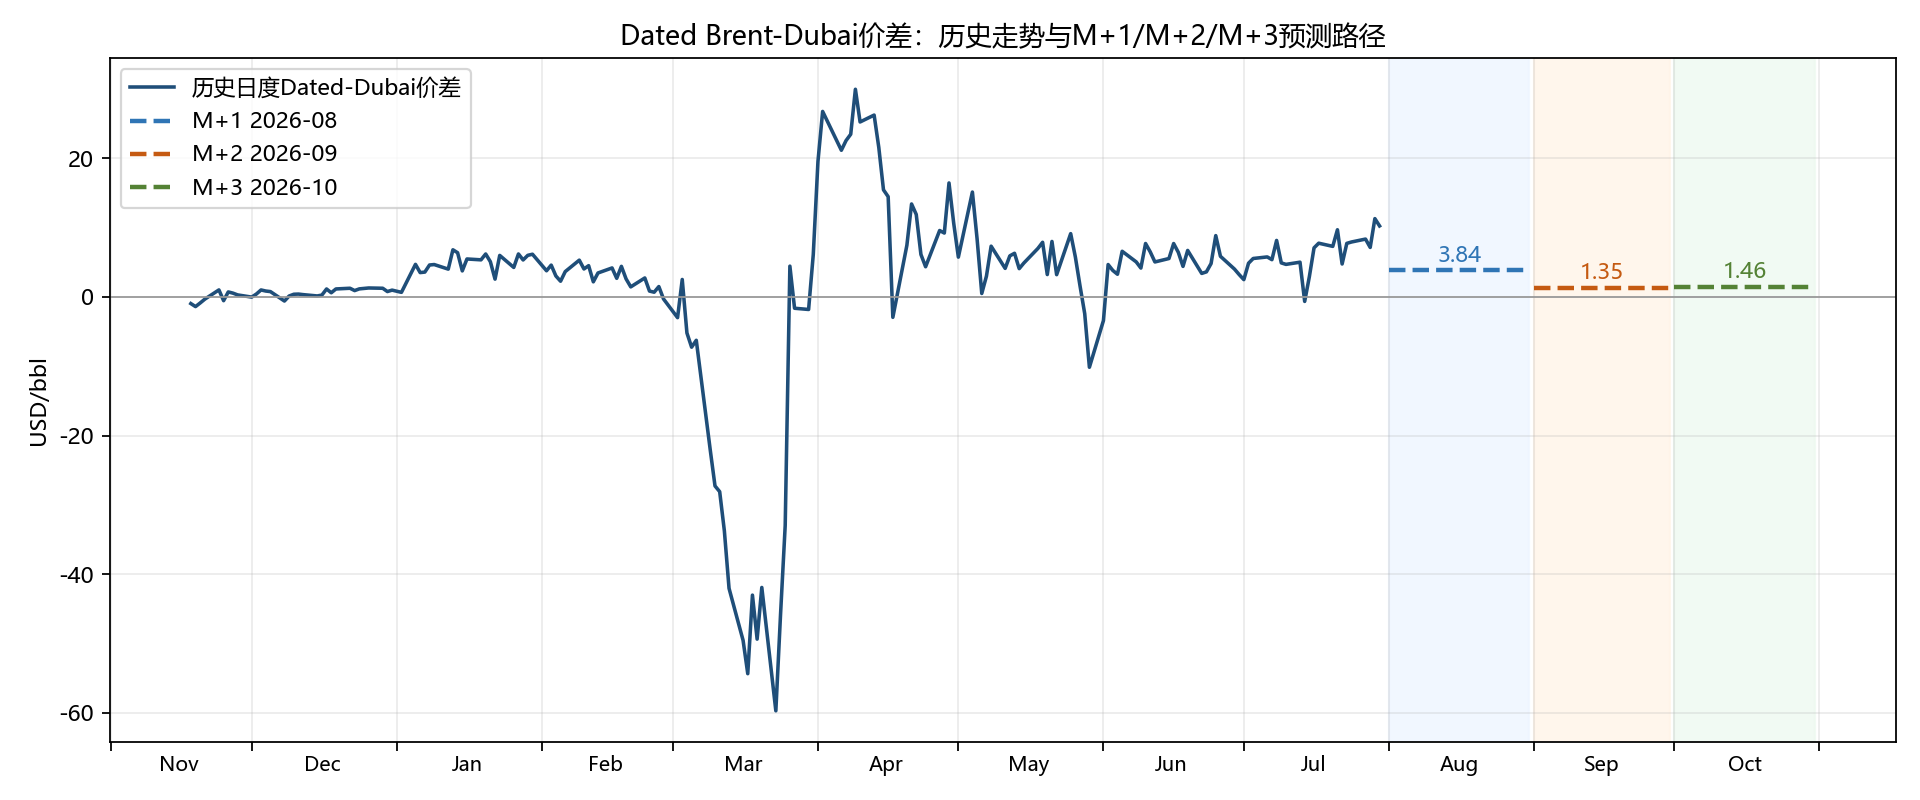
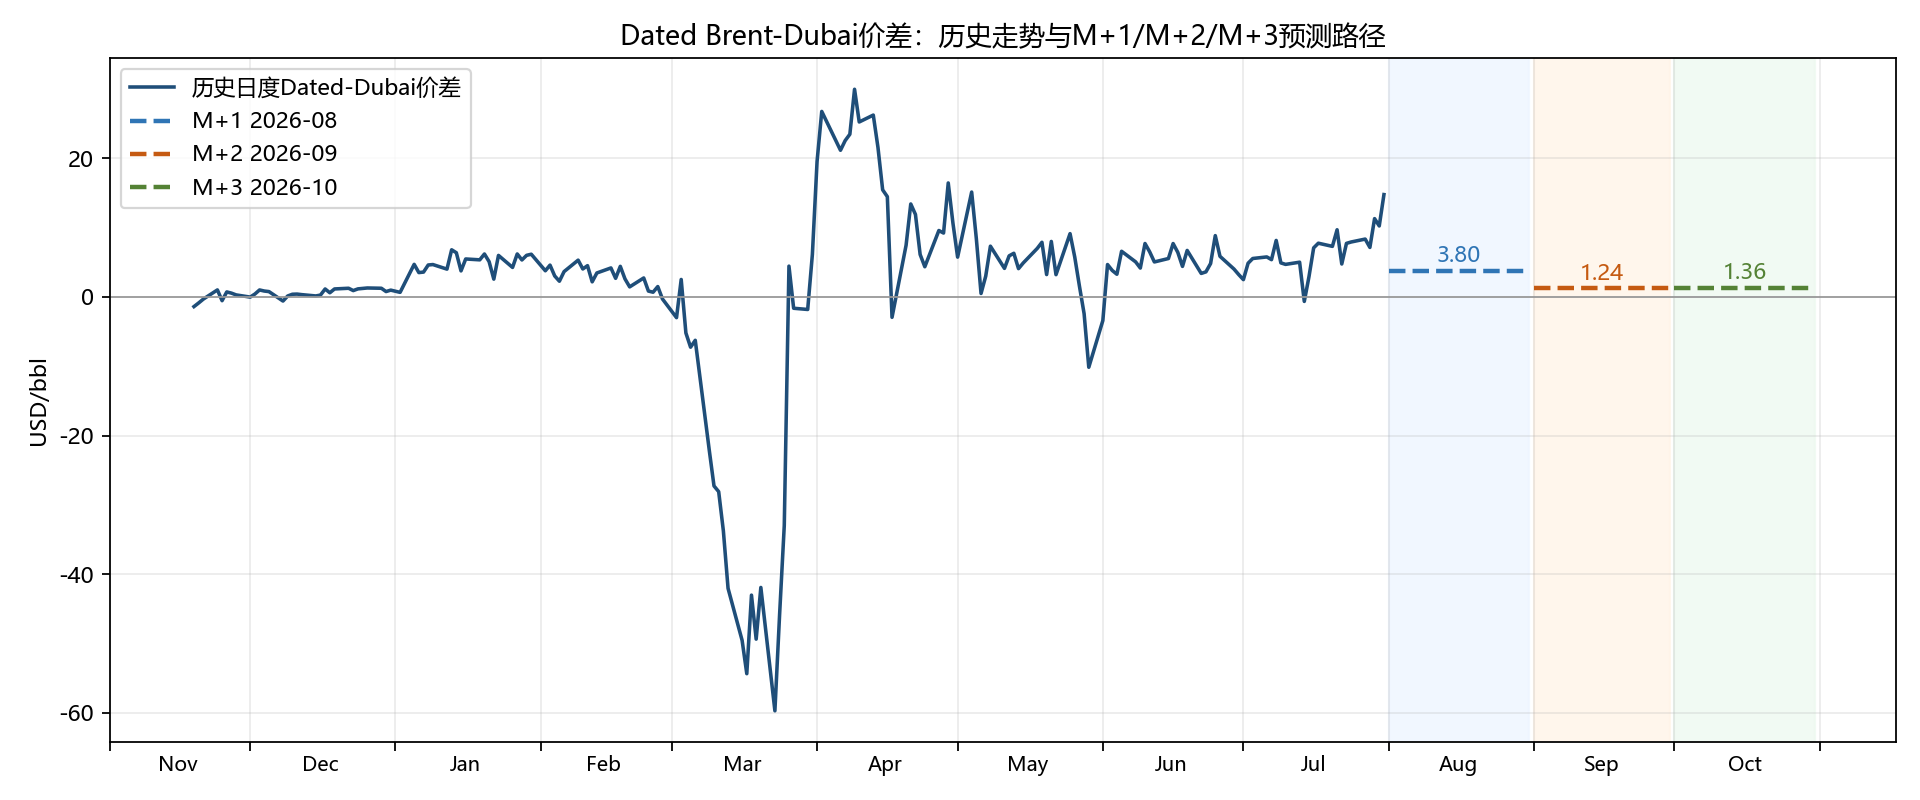
Update BD report 2026-08-03 09:39

diff --git a/index.html b/index.html
@@ -20,7 +20,7 @@ img{max-width:100%;border:1px solid #ddd}.note{color:#555}
 </head><body>
 <h1>Dated-Dubai价差中期预测模型报告</h1>
 <h2>1. 核心结论</h2>
-<div class='grid'><div class='kpi'>数据日期<b>2026-07-30</b></div><div class='kpi'>Dated Brent<b>92.155</b></div><div class='kpi'>Dubai<b>81.910</b></div><div class='kpi'>Dated-Dubai价差<b>10.245</b></div></div>
+<div class='grid'><div class='kpi'>数据日期<b>2026-07-31</b></div><div class='kpi'>Dated Brent<b>96.570</b></div><div class='kpi'>Dubai<b>81.800</b></div><div class='kpi'>Dated-Dubai价差<b>14.770</b></div></div>
 <table class="dataframe data-table">
   <thead>
     <tr style="text-align: right;">
@@ -39,8 +39,8 @@ img{max-width:100%;border:1px solid #ddd}.note{color:#555}
     <tr>
       <td>2026-08</td>
       <td>M+1</td>
-      <td>3.8437</td>
-      <td>-6.4013</td>
+      <td>3.7970</td>
+      <td>-10.9730</td>
       <td>下降</td>
       <td>ExtraTrees</td>
       <td>core</td>
@@ -50,8 +50,8 @@ img{max-width:100%;border:1px solid #ddd}.note{color:#555}
     <tr>
       <td>2026-09</td>
       <td>M+2</td>
-      <td>1.3473</td>
-      <td>-8.8977</td>
+      <td>1.2399</td>
+      <td>-13.5301</td>
       <td>下降</td>
       <td>ExtraTrees</td>
       <td>enhanced</td>
@@ -61,8 +61,8 @@ img{max-width:100%;border:1px solid #ddd}.note{color:#555}
     <tr>
       <td>2026-10</td>
       <td>M+3</td>
-      <td>1.4555</td>
-      <td>-8.7895</td>
+      <td>1.3590</td>
+      <td>-13.4110</td>
       <td>下降</td>
       <td>ExtraTrees</td>
       <td>enhanced</td>
@@ -72,10 +72,10 @@ img{max-width:100%;border:1px solid #ddd}.note{color:#555}
   </tbody>
 </table>
 <p>方向准确率为历史滚动回测结果。</p>
-<p>最新Dated-Dubai价差为 10.245 USD/bbl；未来预测方向为：M+1 2026-08 下降、M+2 2026-09 下降、M+3 2026-10 下降。</p>
+<p>最新Dated-Dubai价差为 14.770 USD/bbl；未来预测方向为：M+1 2026-08 下降、M+2 2026-09 下降、M+3 2026-10 下降。</p>
 <p>当前三个预测月份中，M+1 使用 ExtraTrees + core，M+2 使用 ExtraTrees + enhanced，M+3 使用 ExtraTrees + enhanced。</p>
 <h2>2. 价差走势与中期预测</h2>
-<img src='bd_m1_m3_monthly_forecast_chart.png?v=20260731103005' alt='M1-M3月均预测图'>
+<img src='bd_m1_m3_monthly_forecast_chart.png?v=20260803093918' alt='M1-M3月均预测图'>
 <p class='note'>实线为最近历史日度Dated-Dubai价差；水平虚线分别表示M+1/M+2/M+3完整自然月平均Dated-Dubai价差预测。价差上升表示Dated Brent相对Dubai走强；价差下降表示Dubai相对Dated Brent走强。</p>
 <h2>3. 回测表现摘要</h2>
 <table class="dataframe data-table">
@@ -299,7 +299,7 @@ img{max-width:100%;border:1px solid #ddd}.note{color:#555}
       <td>1</td>
       <td>核心海湾产量</td>
       <td>中东供应</td>
-      <td>0.081218</td>
+      <td>0.098662</td>
       <td>反映核心海湾原油产量变化</td>
     </tr>
     <tr>
@@ -307,7 +307,7 @@ img{max-width:100%;border:1px solid #ddd}.note{color:#555}
       <td>2</td>
       <td>俄罗斯替代油便宜度压力</td>
       <td>制裁替代油</td>
-      <td>0.065788</td>
+      <td>0.064486</td>
       <td>反映俄罗斯替代油对Dubai-linked油的便宜度压力</td>
     </tr>
     <tr>
@@ -315,7 +315,7 @@ img{max-width:100%;border:1px solid #ddd}.note{color:#555}
       <td>3</td>
       <td>OPEC剩余产能</td>
       <td>OPEC供应</td>
-      <td>0.049244</td>
+      <td>0.062677</td>
       <td>反映OPEC可释放供应弹性</td>
     </tr>
     <tr>
@@ -323,56 +323,56 @@ img{max-width:100%;border:1px solid #ddd}.note{color:#555}
       <td>4</td>
       <td>Dubai CTD篮子分化</td>
       <td>Dubai CTD</td>
-      <td>0.047946</td>
+      <td>0.049047</td>
       <td>反映Dubai交割篮子内部组分升贴水分化程度</td>
     </tr>
     <tr>
       <td>M+3 2026-10</td>
       <td>5</td>
-      <td>USGC汽油价格</td>
-      <td>运费/产品</td>
-      <td>0.040826</td>
-      <td>反映USGC汽油市场强弱</td>
-    </tr>
-    <tr>
-      <td>M+3 2026-10</td>
-      <td>6</td>
       <td>核心海湾出口量</td>
       <td>中东供应</td>
-      <td>0.037515</td>
+      <td>0.048182</td>
       <td>反映核心海湾原油出口强弱</td>
     </tr>
     <tr>
       <td>M+3 2026-10</td>
-      <td>7</td>
-      <td>USGC至亚洲VLCC运费</td>
+      <td>6</td>
+      <td>USGC汽油价格</td>
       <td>运费/产品</td>
-      <td>0.034203</td>
-      <td>反映USGC原油流向亚洲的VLCC运费压力</td>
+      <td>0.040921</td>
+      <td>反映USGC汽油市场强弱</td>
+    </tr>
+    <tr>
+      <td>M+3 2026-10</td>
+      <td>7</td>
+      <td>制裁替代油便宜度压力</td>
+      <td>制裁替代油</td>
+      <td>0.033197</td>
+      <td>反映制裁替代油整体便宜度压力</td>
     </tr>
     <tr>
       <td>M+3 2026-10</td>
       <td>8</td>
       <td>俄罗斯油相对Dubai便宜度</td>
       <td>制裁替代油</td>
-      <td>0.033266</td>
+      <td>0.032612</td>
       <td>俄罗斯油越便宜，对Dubai-linked油有替代压力</td>
     </tr>
     <tr>
       <td>M+3 2026-10</td>
       <td>9</td>
-      <td>中东至地中海VLCC运费</td>
-      <td>运费</td>
-      <td>0.032029</td>
-      <td>反映中东至地中海VLCC运费环境</td>
+      <td>Cold Lake相对优势信号</td>
+      <td>非制裁替代油</td>
+      <td>0.030970</td>
+      <td>反映Cold Lake替代油相对吸引力</td>
     </tr>
     <tr>
       <td>M+3 2026-10</td>
       <td>10</td>
-      <td>沙特中质/轻质OSP价差</td>
-      <td>OSP结构</td>
-      <td>0.030916</td>
-      <td>反映沙特中质油和轻质油OSP相对强弱</td>
+      <td>USGC至亚洲VLCC运费</td>
+      <td>运费/产品</td>
+      <td>0.029933</td>
+      <td>反映USGC原油流向亚洲的VLCC运费压力</td>
     </tr>
   </tbody>
 </table>

diff --git a/README_PUBLISH.md b/README_PUBLISH.md
@@ -1,5 +1,5 @@
 # BD GitHub Pages publish package
-Generated at: 2026-07-31 10:30:05
+Generated at: 2026-08-03 09:39:18
 
 Files:
 - index.html: formal report entry
